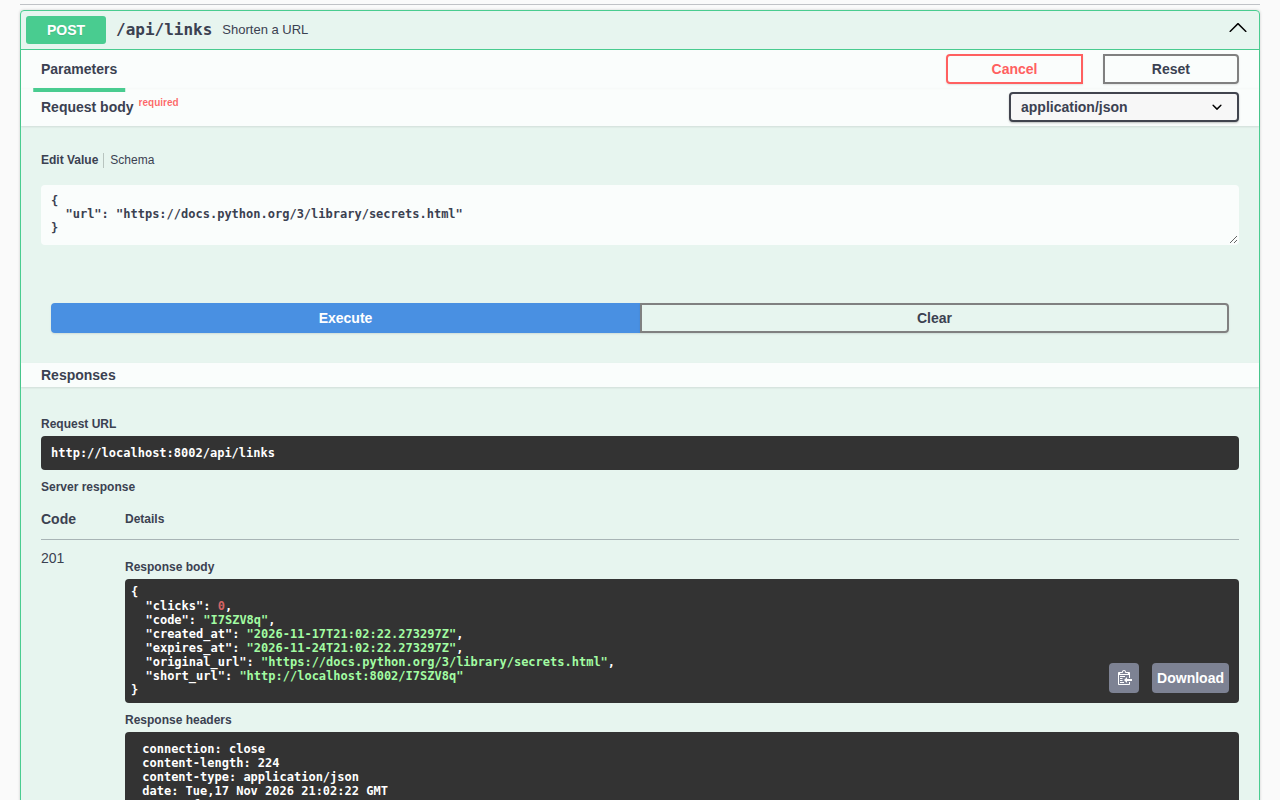
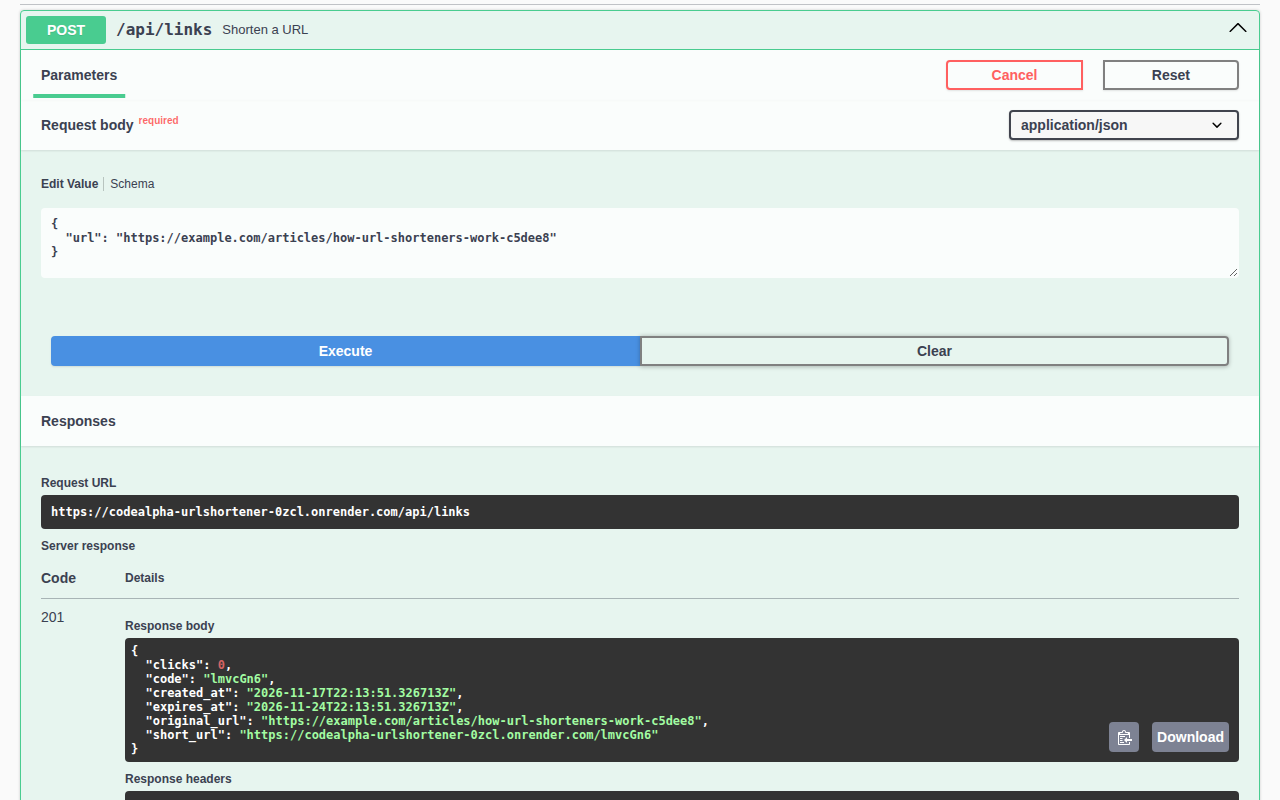
Add live demo link and live screenshots

Changed region(s): [[0.0312, 0.375, 0.9688, 1.0], [0.0312, 0.0625, 0.4375, 0.3125], [0.75, 0.0625, 0.9688, 0.1875]]

diff --git a/README.md b/README.md
@@ -1,8 +1,13 @@
 # CodeAlpha URL Shortener
 
 [![CI](https://github.com/Techy-Pabs/CodeAlpha_URLShortener/actions/workflows/ci.yml/badge.svg)](https://github.com/Techy-Pabs/CodeAlpha_URLShortener/actions/workflows/ci.yml)
+[![Live demo](https://img.shields.io/badge/live%20demo-onrender.com-46e3b7)](https://codealpha-urlshortener-0zcl.onrender.com)
 
-**Live demo:** coming soon (the link goes here after deployment).
+**Live demo:** https://codealpha-urlshortener-0zcl.onrender.com (opens the
+Swagger UI at
+[/api/docs/](https://codealpha-urlshortener-0zcl.onrender.com/api/docs/)). It
+runs on Render's free plan, which sleeps when idle, so the first load can take
+up to a minute. Links made on the demo expire after 7 days.
 
 A REST API that turns long URLs into short links, redirects visitors who
 open a short link, and counts the clicks. It's written in Flask with a
@@ -422,7 +427,7 @@ python -c "import secrets; print(secrets.token_urlsafe(50))"
 
 ## Screenshots
 
-All taken from the Swagger UI of the Docker setup, with `LINK_TTL_DAYS=7`.
+All taken from the Swagger UI of the live demo, which runs with `LINK_TTL_DAYS=7`.
 
 ![Swagger UI listing the health, create link and stats endpoints](docs/screenshots/01-swagger-overview.png)
 
